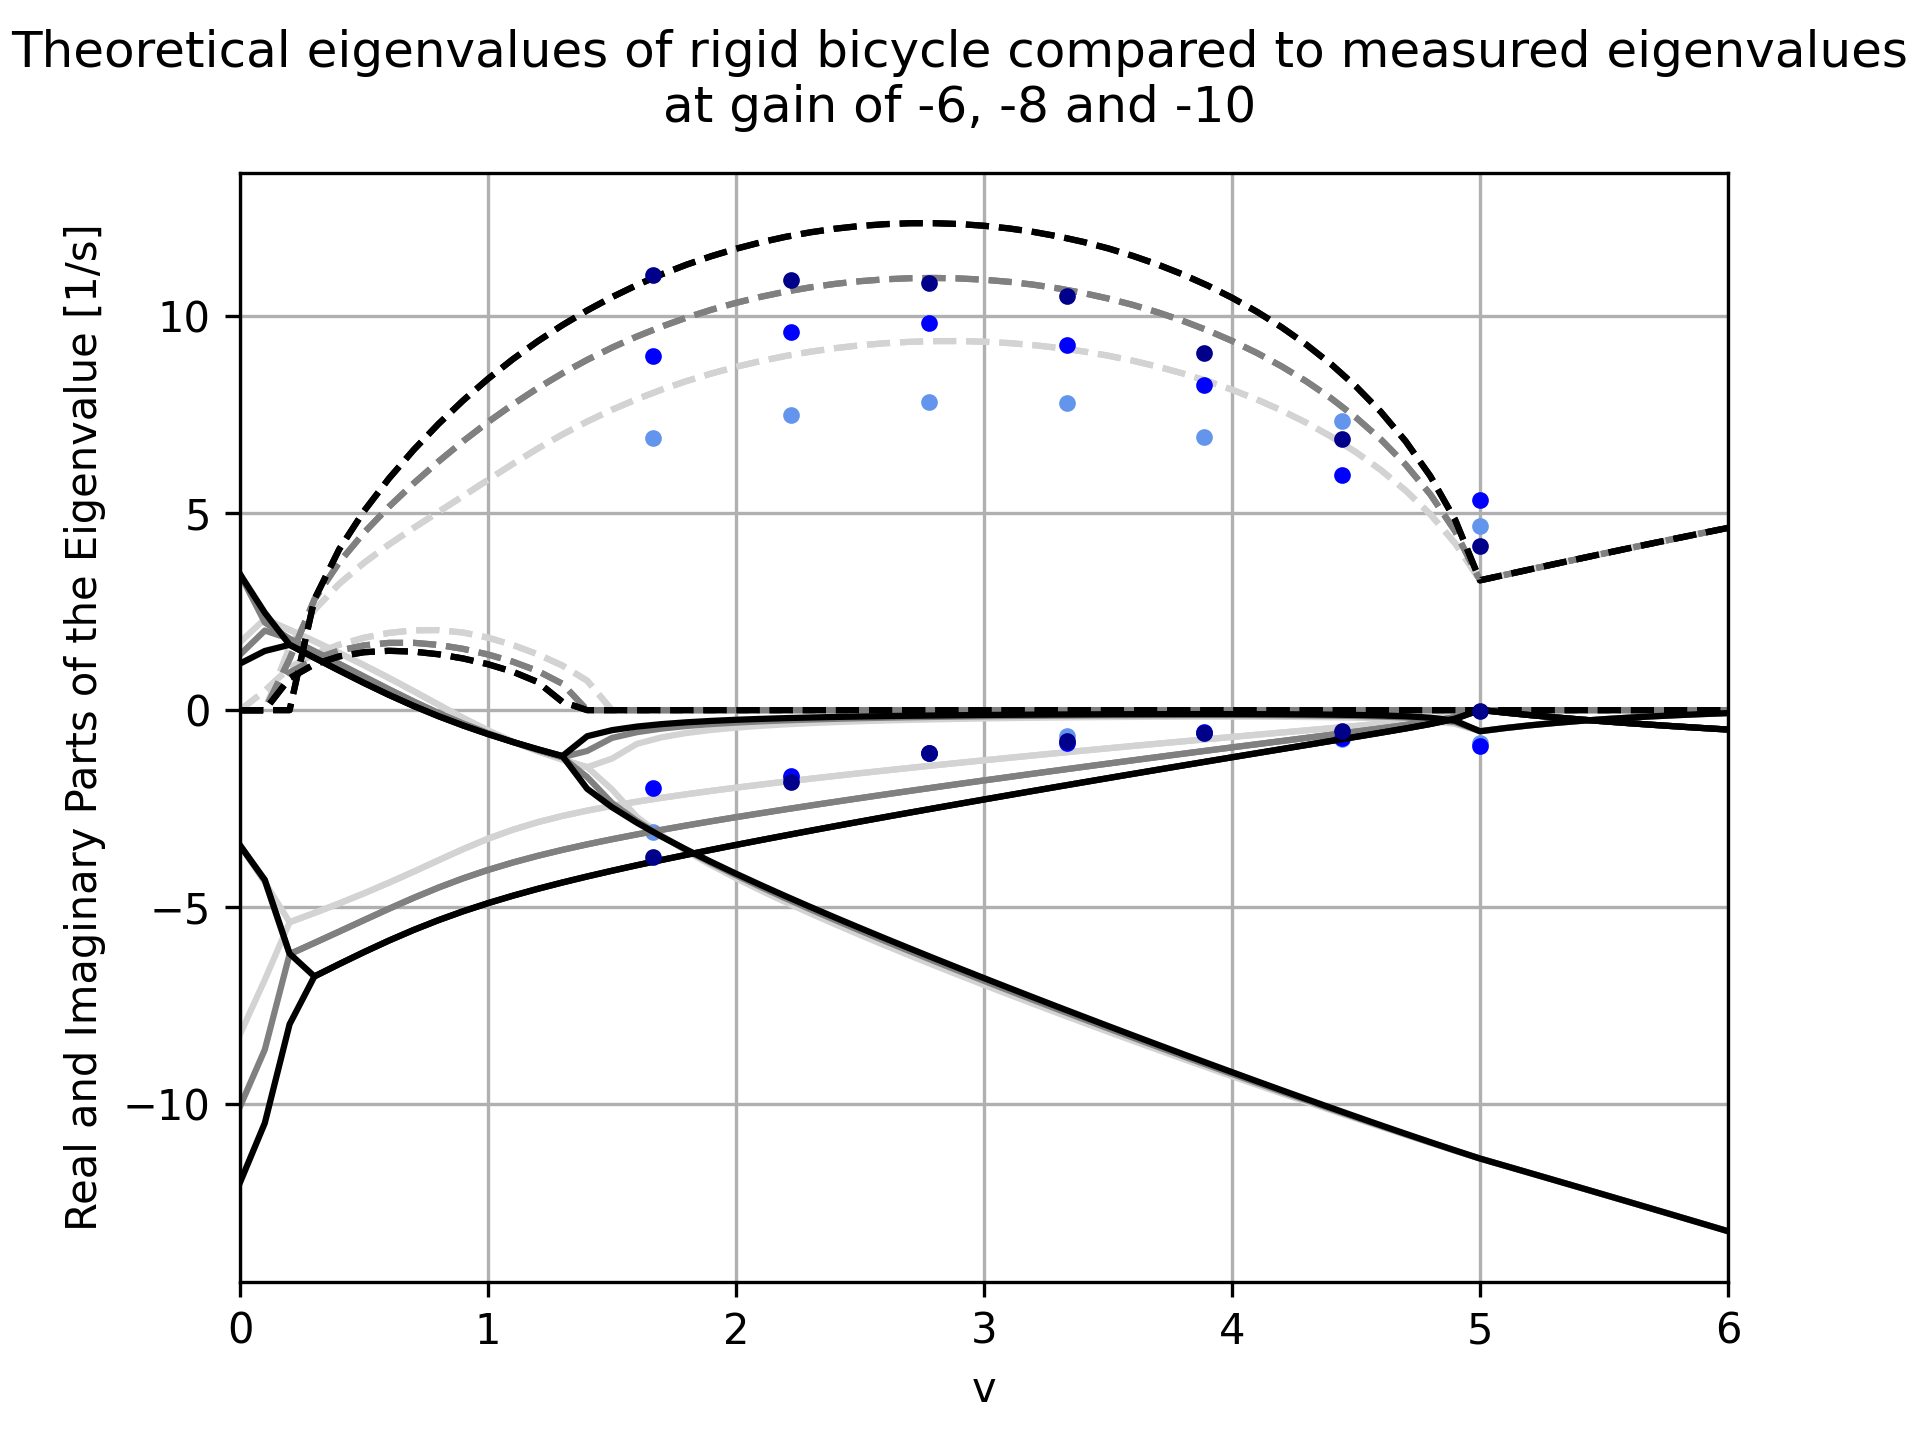
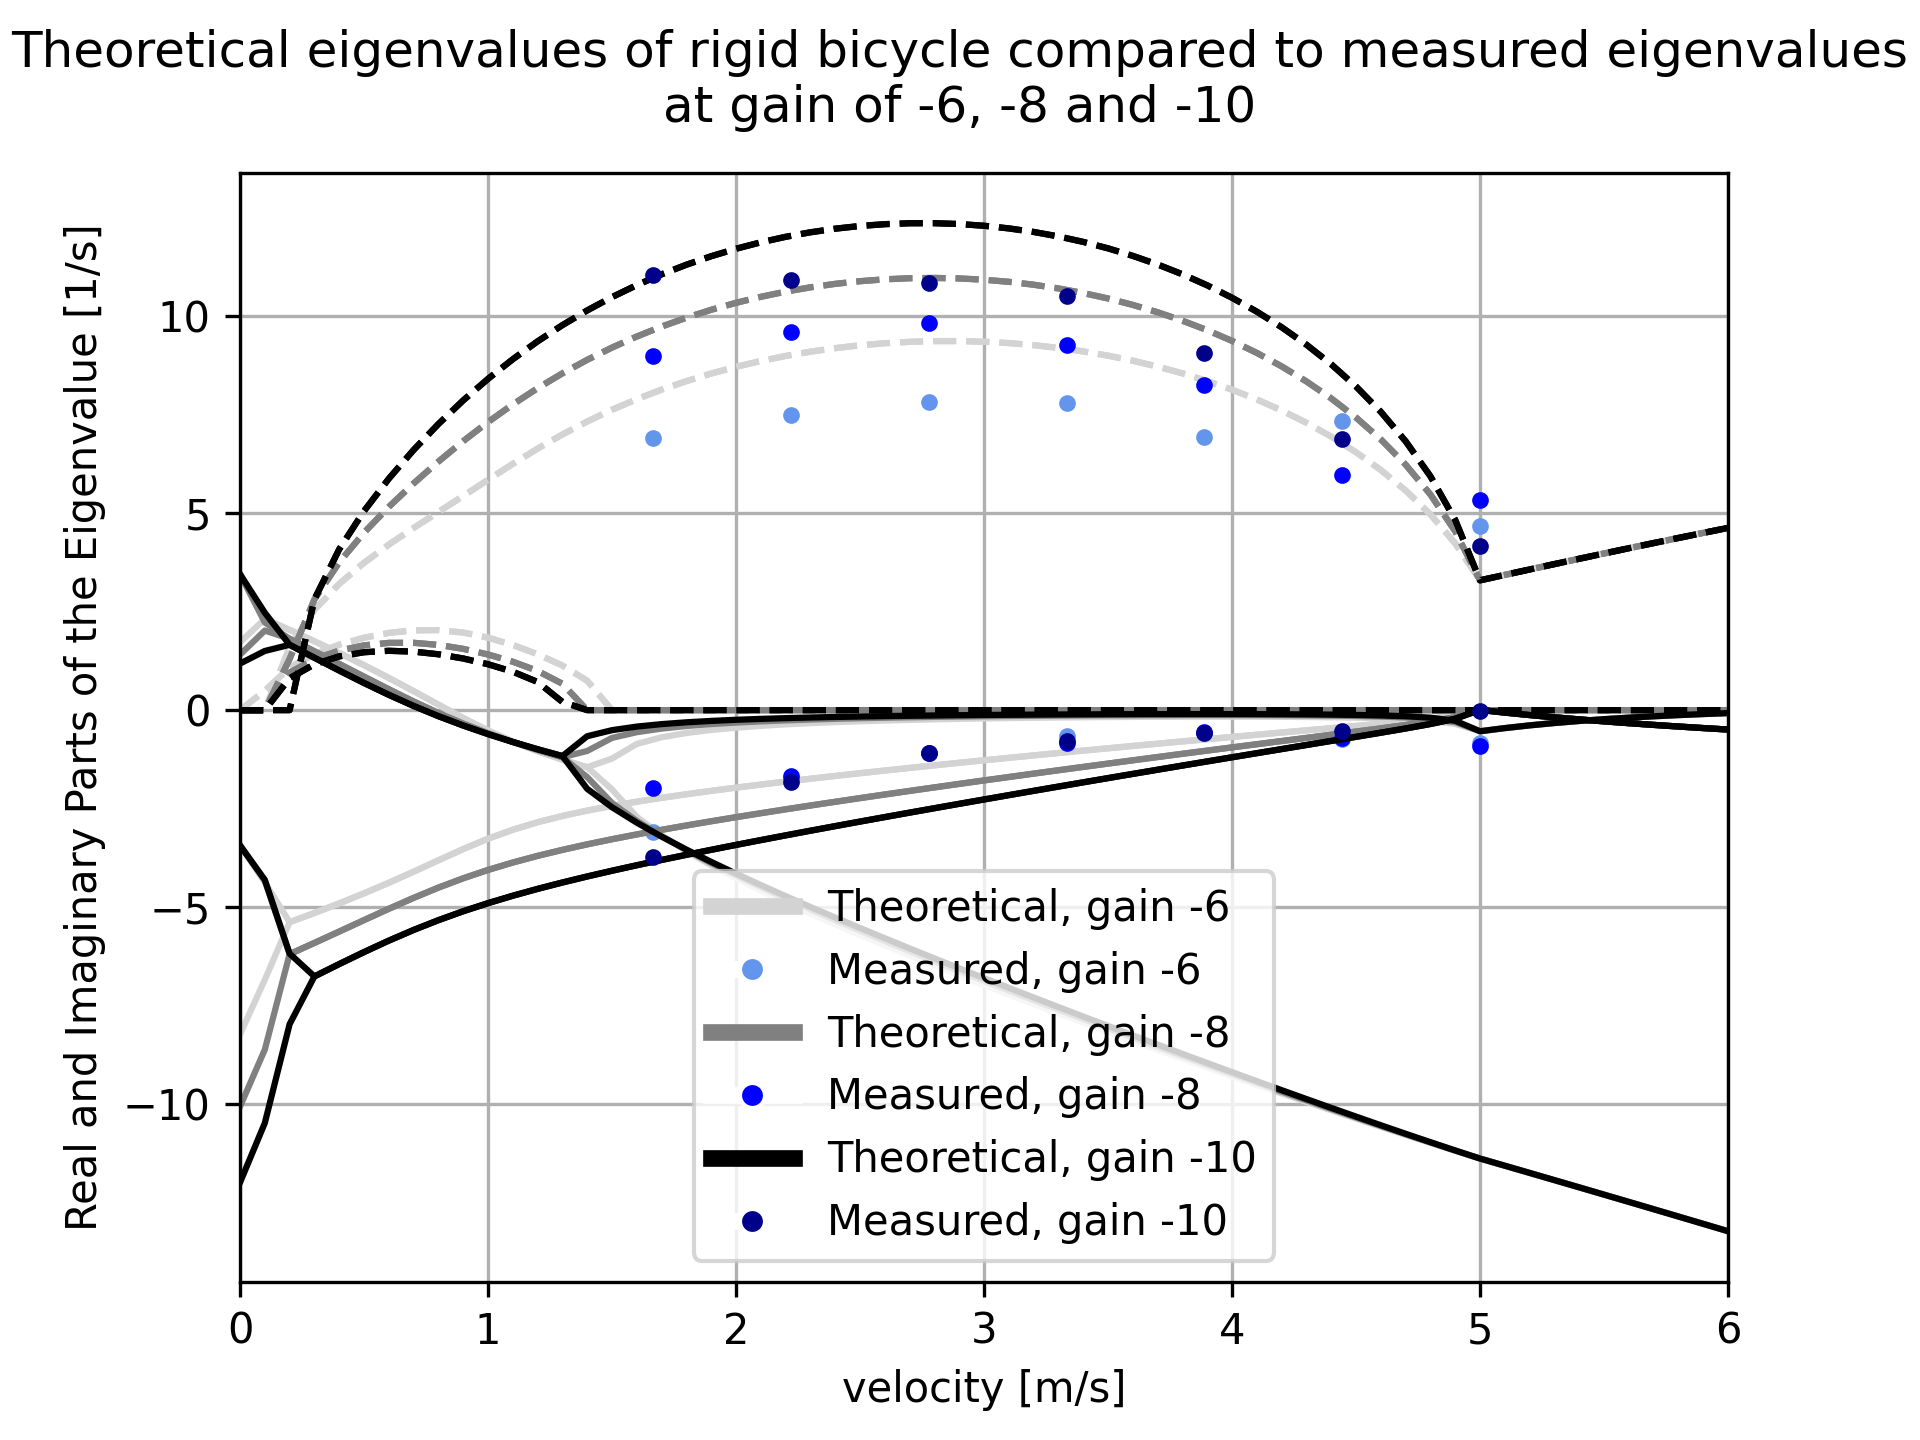
Update fig to include in thesis

Changed region(s): [[0.3438, 0.5938, 0.6875, 0.875], [0.4375, 0.9375, 0.5938, 0.9688], [0.375, 0.8438, 0.4062, 0.875]]

diff --git a/AnalyzeData.py b/AnalyzeData.py
@@ -1,12 +1,14 @@
 import os
 import pandas as pd
 import matplotlib.pyplot as plt
+from matplotlib.lines import Line2D
 import numpy as np
 import scipy.optimize as spo
 
 from bicycleparameters.parameter_sets import Meijaard2007ParameterSet
-from data import balance_assist_without_rider, balance_assist_with_rider, rigid_bike_without_rider
+from data import balance_assist_without_rider, rigid_bike_without_rider
 from model import SteerControlModel
+
 
 def main():
     parameter_set = Meijaard2007ParameterSet(rigid_bike_without_rider, True)
@@ -23,7 +25,7 @@ def main():
             prefix = "12-May-2023-10-11-04-bas-on-gain-6-speed-"
         else:
             prefix = "12-May-2023-10-39-32-bas-on-gain-" + str(gain) + "-speed-"
-        real, img, r_squared = fit_curve(gain, prefix)
+        real, img, r_squared = fit_curve(gain, prefix, show_plots=True)
     
         kphidots = -gain*(5.0 - speeds)
         kphidots[50:] = 0.0
@@ -35,9 +37,19 @@ def main():
         plt.plot(
             velocities_ms, img, '.', label='Measured imaginary eigenvalues', color=colors_measured[i]
         )
-        # plt.legend()
+        plt.legend()
         print(f"R-squared values for gain {gain}: Mean: {np.mean(r_squared)}, Max: {np.max(r_squared)}, Min: {np.min(r_squared)}")
 
+
+    legend_elements = []
+    gains = ["-6", "-8", "-10"]
+    for i, colors in enumerate(zip(colors_theoretical, colors_measured)):
+        legend_elements.append(Line2D([0], [0], color=colors[0], lw=4, label="Theoretical, gain " + gains[i])),
+        legend_elements.append(Line2D([0], [0], marker="o", markerfacecolor=colors[1], color="w", lw=4, label="Measured, gain " + gains[i]))
+    
+    plt.legend(handles=legend_elements)
+
+    ax.set_xlabel("velocity [m/s]")
     fig.show()
     fig.suptitle('Theoretical eigenvalues of rigid bicycle compared to measured eigenvalues at gain of -6, -8 and -10', wrap=True)
     plt.savefig("figures/all-gains", dpi=300)
@@ -77,17 +89,21 @@ def fit_curve(gain: int, prefix: str, show_plots: bool = False):
             if show_plots:
                 print(popt)
                 fig, ax = plt.subplots(1,1)
-                ax.plot(df_gyro.loc[:,"time"], df_gyro.loc[:,"gyro_x"], '.')
+                ax.plot(df_gyro.loc[:,"time"], df_gyro.loc[:,"gyro_x"], '.', label="Measured data")
                 ax.plot(
                     df_gyro.loc[:,"time"],
                     kooijman_func(
                         df_gyro.loc[:,"time"], popt[0], popt[1], popt[2], popt[3], popt[4]
-                    )
+                    ),
+                    label="Fitted equation"
                 )
                 ax.set_xlabel("Time since perturbation [s]")
                 ax.set_ylabel("Roll rate [rad/s]")
+                ax.set_title("Measured roll rate data and fitted equation")
+                ax.grid(True)
+                ax.legend()
                 fig.show()
-                # fig.waitforbuttonpress()
+                fig.waitforbuttonpress()
 
 
         avg_eigenvalues_real.append(sum(eigenvalues_real)/np.size(eigenvalues_real))

diff --git a/ReadDataMarten.m b/ReadDataMarten.m
@@ -24,6 +24,8 @@ for i = 1:length(files)
     % Read and decode data
     can_idx = 8;
     mdf_obj = mdf(finalized_path + ".MF4");
+    mdf_obj.ChannelNames;
+    mdf_obj.ChannelNames{can_idx};
     raw_timetable = read(mdf_obj, can_idx, mdf_obj.ChannelNames{can_idx});
     can_db = canDatabase("dbc_files" + filesep + "Fused_new.dbc");
     msg_timetable = canFDMessageTimetable(raw_timetable, can_db);
